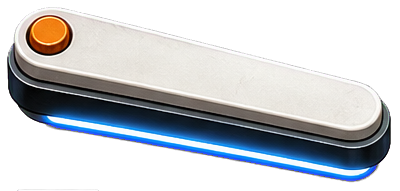
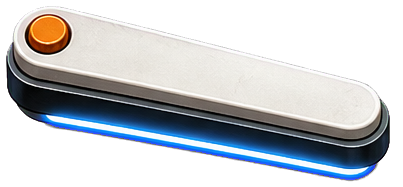
Fix flipper sprite alignment

diff --git a/game.js b/game.js
@@ -32,8 +32,8 @@
     "measurement-right": { src: "assets/images/measurement-target.png", width: 116, height: 116, yOffset: -12 },
     "e-odprema": { src: "assets/images/e-odprema-truck.png", width: 138, height: 116, yOffset: -10 },
     alcad: { src: "assets/images/alcad-marker.png", width: 132, height: 116, yOffset: -10 },
-    "flipper-left": { src: "assets/images/flipper-left.png", width: 214, height: 102 },
-    "flipper-right": { src: "assets/images/flipper-right.png", width: 214, height: 106 },
+    "flipper-left": { src: "assets/images/flipper-left.png", width: 178, height: 83 },
+    "flipper-right": { src: "assets/images/flipper-right.png", width: 178, height: 83 },
     "lamp-post-red": { src: "assets/images/lamp-post-red.png", width: 34, height: 68 },
     "lamp-post-orange": { src: "assets/images/lamp-post-orange.png", width: 34, height: 67 },
     "lamp-post-blue": { src: "assets/images/lamp-post-blue.png", width: 34, height: 67 },
@@ -568,37 +568,58 @@
     const pivotX = config.pivotX;
     const pivotY = config.pivotY;
 
-    if (flipperAsset?.loaded) {
-      context.save();
-      context.translate(body.position.x, body.position.y);
-      context.rotate(body.angle);
-      context.shadowColor = isActive ? "rgba(49, 168, 255, 0.58)" : "rgba(0, 0, 0, 0.42)";
-      context.shadowBlur = isActive ? 18 : 12;
-      context.shadowOffsetY = 7;
-
-      if (isRight) {
-        context.scale(-1, 1);
-      }
-
-      context.drawImage(
-        flipperAsset.image,
-        -flipperAsset.width / 2,
-        -flipperAsset.height / 2,
-        flipperAsset.width,
-        flipperAsset.height
-      );
-      context.restore();
-      return;
-    }
-
     context.save();
     context.translate(body.position.x, body.position.y);
     context.rotate(body.angle);
 
-    fillRoundedRect(-config.length / 2, -config.height / 2, config.length, config.height, 16, isActive ? "#f7fbff" : "#dbe5e7");
-    strokeRoundedRect(-config.length / 2, -config.height / 2, config.length, config.height, 16, isActive ? "#31a8ff" : "#738891", 5);
+    const drewAsset = Boolean(flipperAsset?.loaded);
+
+    if (drewAsset) {
+      context.shadowColor = isActive ? "rgba(49, 168, 255, 0.58)" : "rgba(0, 0, 0, 0.42)";
+      context.shadowBlur = isActive ? 18 : 12;
+      context.shadowOffsetY = 7;
+
+      const pivotInset = 16;
+      const drawX = -config.length / 2 - pivotInset;
+      const drawY = -flipperAsset.height / 2 + 1;
+
+      if (isRight) {
+        context.scale(1, -1);
+      }
+
+      context.drawImage(
+        flipperAsset.image,
+        drawX,
+        drawY,
+        flipperAsset.width,
+        flipperAsset.height
+      );
+    } else {
+      context.shadowColor = isActive ? "rgba(49, 168, 255, 0.54)" : "rgba(0, 0, 0, 0.38)";
+      context.shadowBlur = isActive ? 18 : 10;
+      context.shadowOffsetY = 7;
+
+      const bodyGradient = context.createLinearGradient(0, -config.height / 2, 0, config.height / 2);
+      bodyGradient.addColorStop(0, "#f8fbfc");
+      bodyGradient.addColorStop(0.48, "#dfe8eb");
+      bodyGradient.addColorStop(1, "#8aa0a8");
+      fillRoundedRect(-config.length / 2, -config.height / 2, config.length, config.height, 16, bodyGradient);
+      strokeRoundedRect(-config.length / 2, -config.height / 2, config.length, config.height, 16, isActive ? "#31a8ff" : "#738891", 5);
+
+      context.shadowColor = "transparent";
+      fillRoundedRect(-config.length / 2 + 12, config.height / 2 - 8, config.length - 24, 7, 5, isActive ? "#52bcff" : "#176baf");
+
+      context.fillStyle = "#ff9b3d";
+      context.beginPath();
+      context.arc(-config.length / 2 + 10, 0, 9, 0, Math.PI * 2);
+      context.fill();
+    }
 
     context.restore();
+
+    if (drewAsset) {
+      return;
+    }
 
     context.fillStyle = isActive ? "#31a8ff" : "#ff9b3d";
     context.beginPath();